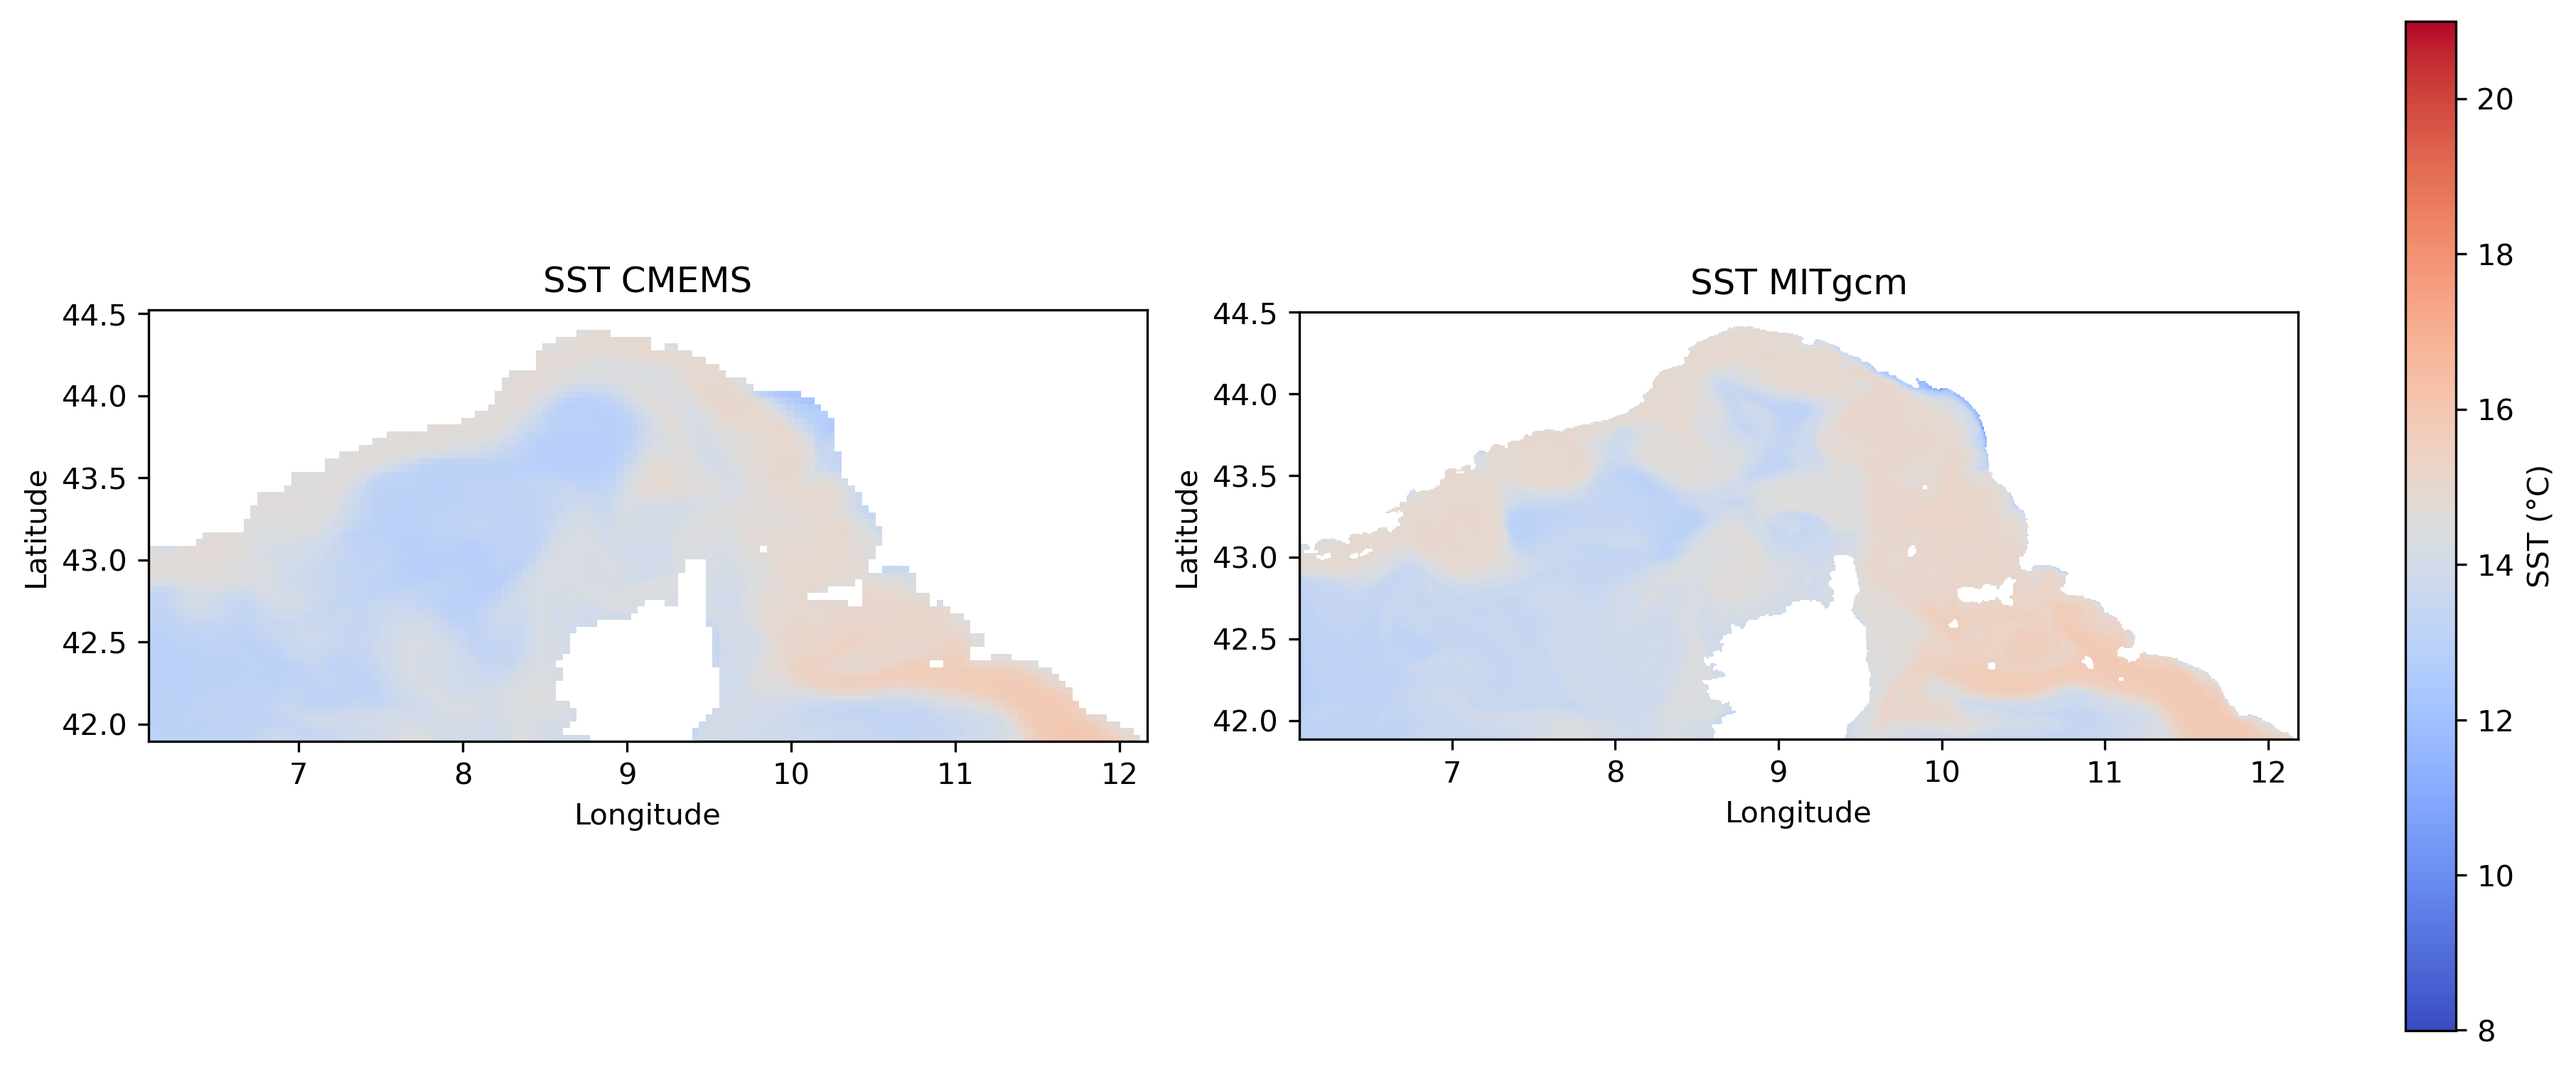
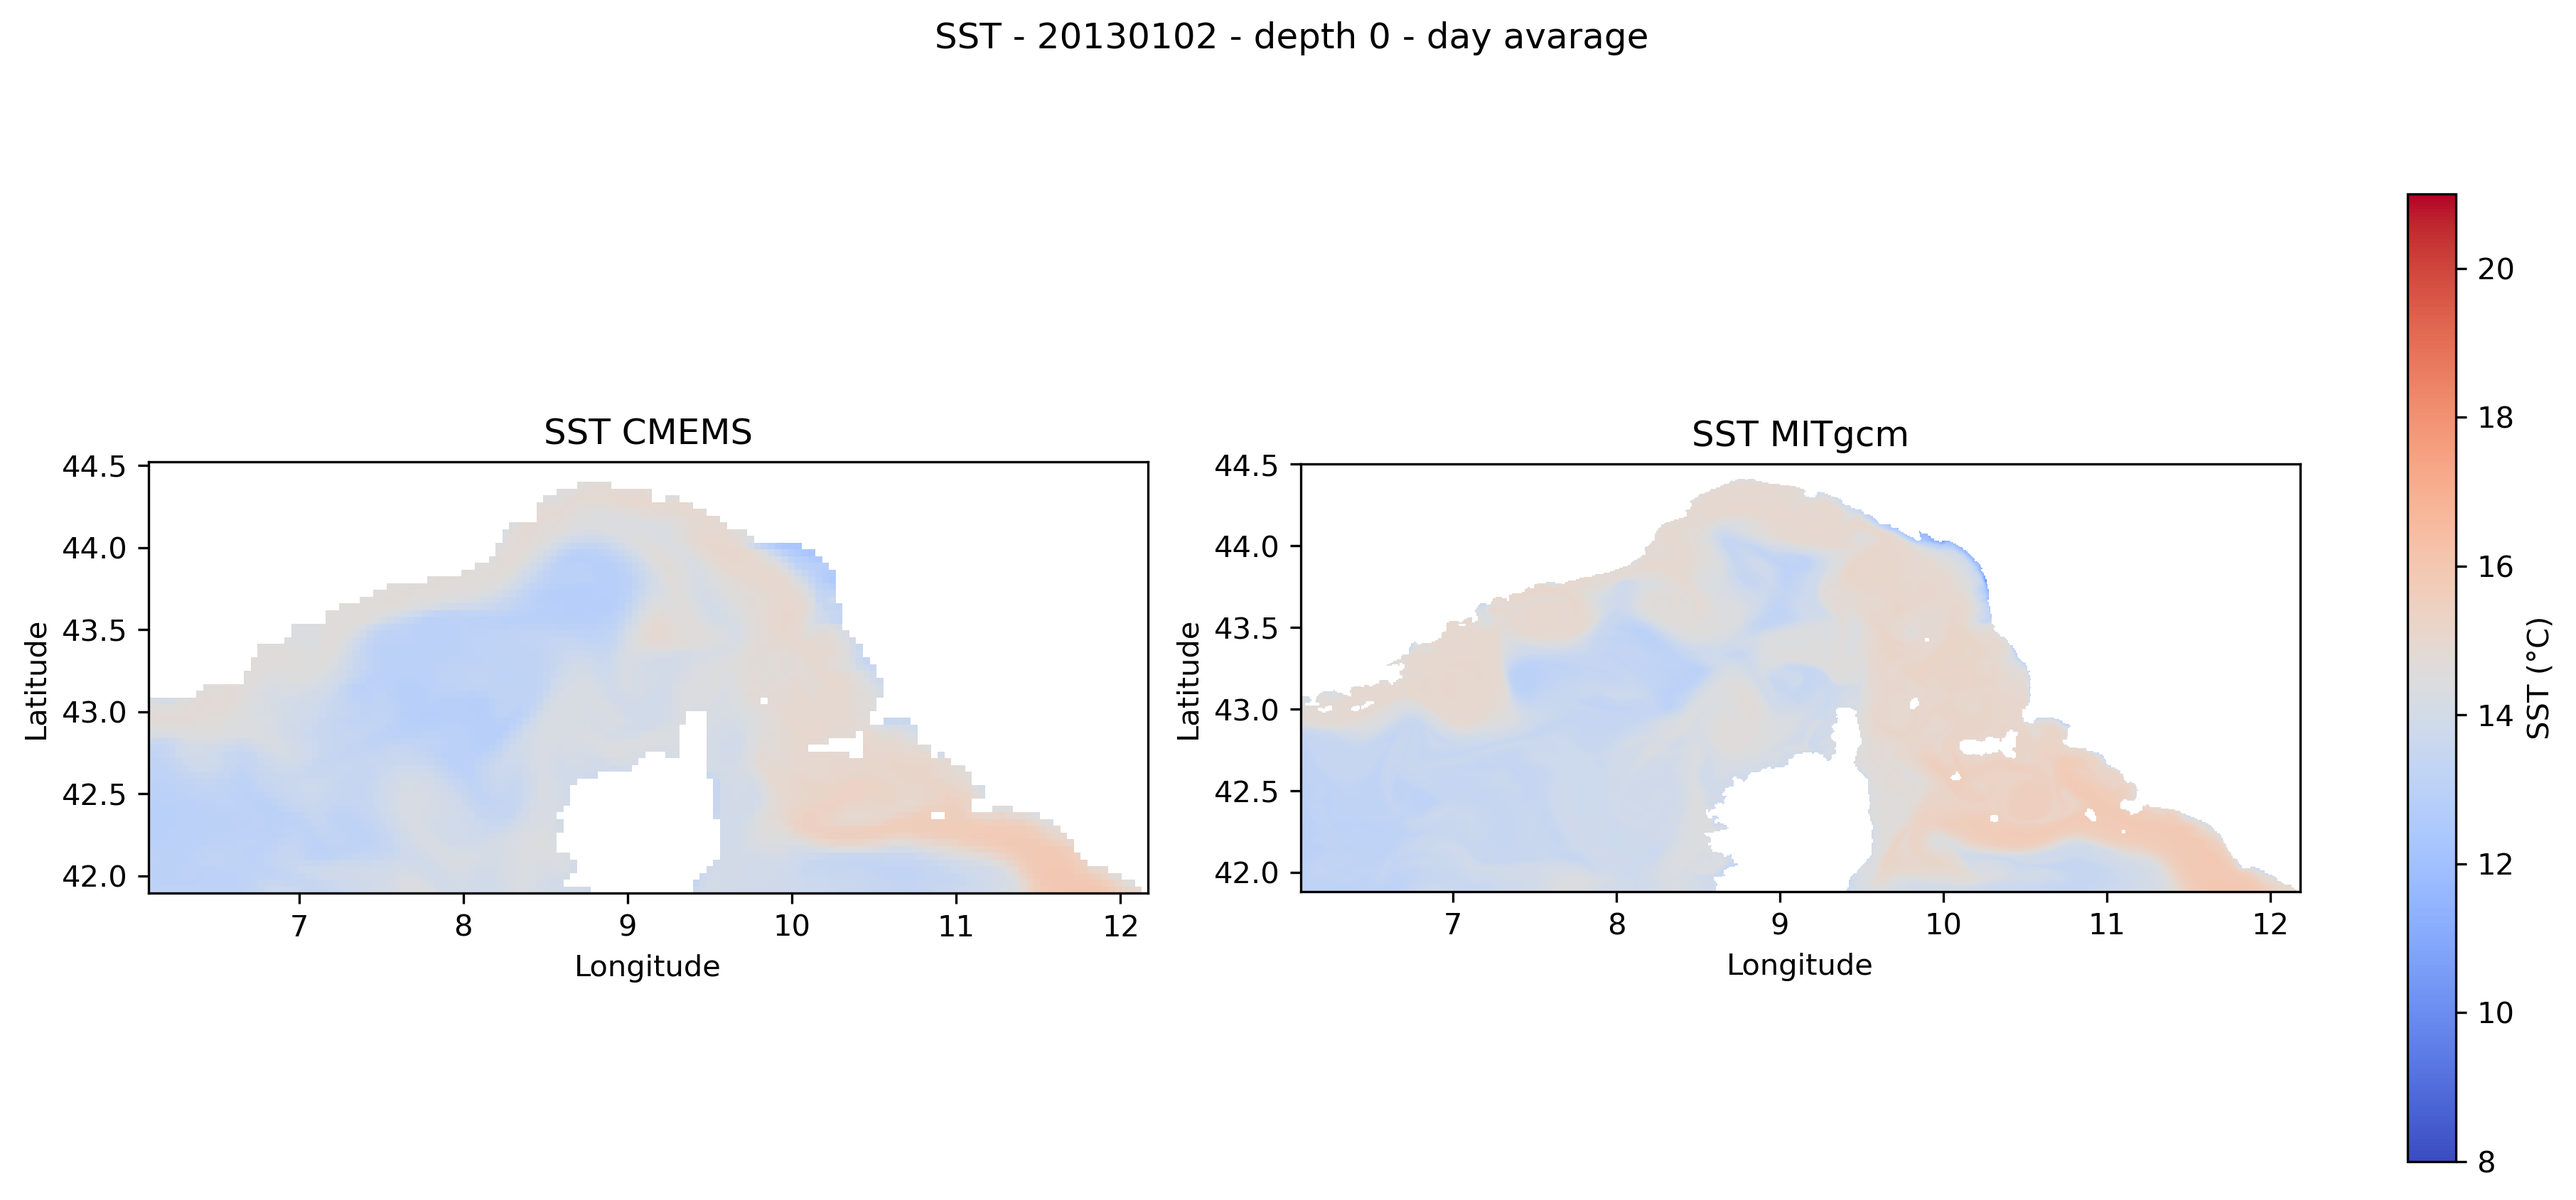
Modified make map by day script allowing for default value in interactive window

diff --git a/postprocessing/make_map_cmems_mitgcm_sst_day.py b/postprocessing/make_map_cmems_mitgcm_sst_day.py
@@ -6,15 +6,16 @@ from pathlib import Path
 from datetime import datetime, timedelta
 
 # Check if python script is running in interactive mode or by command line
-if getattr(sys, "ps1", None) is None:   # Command line
+if hasattr(sys, "ps1"):   # Command line
+    default_value = "20130101"
+    cwd = Path.cwd()
+    requested_date = input("Enter the requested date in format YYYYMMDD: ") or default_value
+else:                                  # Interactive window
     cwd = str(Path(__file__).resolve().parent.parent)
     if len(sys.argv) == 2:
         requested_date = sys.argv[1]
     else:
         sys.exit("Missing argument date in format YYYMMDD")
-else:                                   # Interactive window
-    cwd = Path.cwd()
-    requested_date = input("Enter the requested date in format YYYYMMDD")
 
 # Add the parent directory of the script to sys.path to work in command line execution
 sys.path.append(cwd)
@@ -129,6 +130,7 @@ sst_max = 21
 
 # Create a figure and axes (two subplots)
 fig, axs = plt.subplots(1, 2, figsize=(12, 6), constrained_layout=True)
+fig.suptitle(f"SST - {requested_date} - depth 0 - day avarage")
 
 # Plot the first dataset (c SST - daily)
 c_im = my_functions.plot_map_minmax_nocb(
@@ -161,6 +163,7 @@ cbar = fig.colorbar(
 
 # Create a figure and axes (two subplots)
 fig_d1, axs_d1 = plt.subplots(1, 2, figsize=(12, 6), constrained_layout=True)
+fig_d1.suptitle(f"SST - {requested_date} - Depth 1 - Day avarage")
 
 # Plot the first dataset (c SST - daily)
 c_im_d1 = my_functions.plot_map_minmax_nocb(
